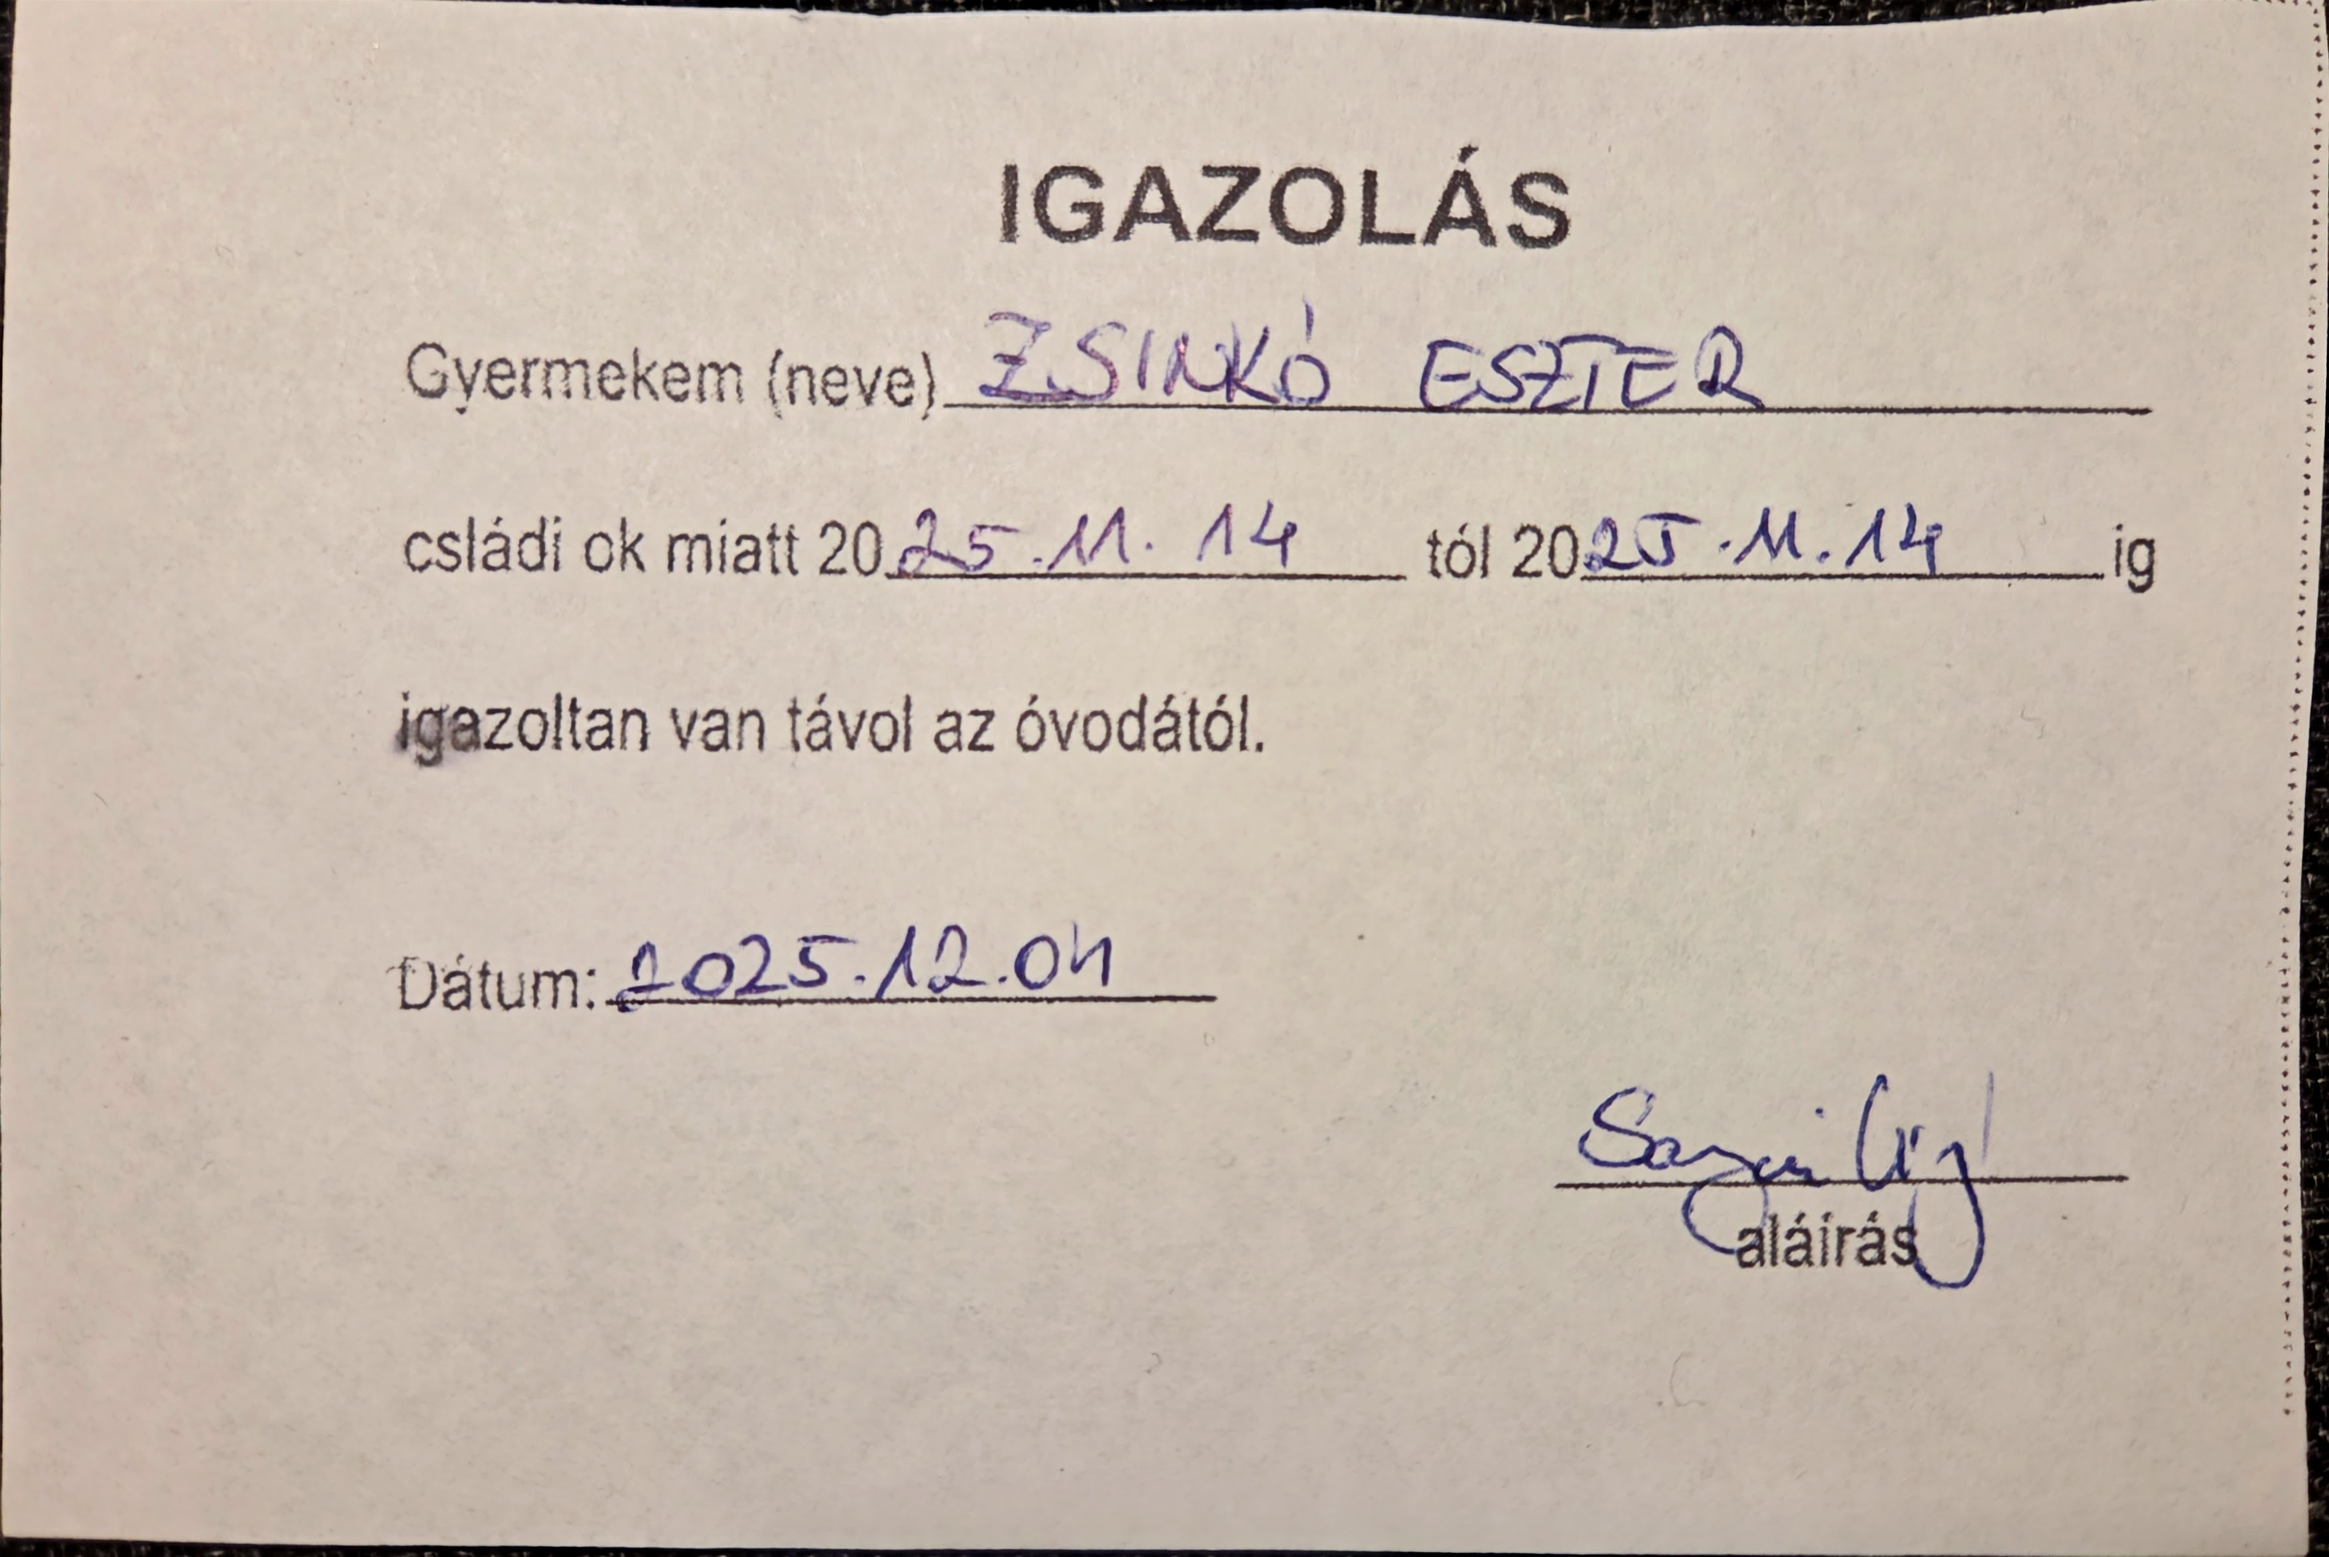
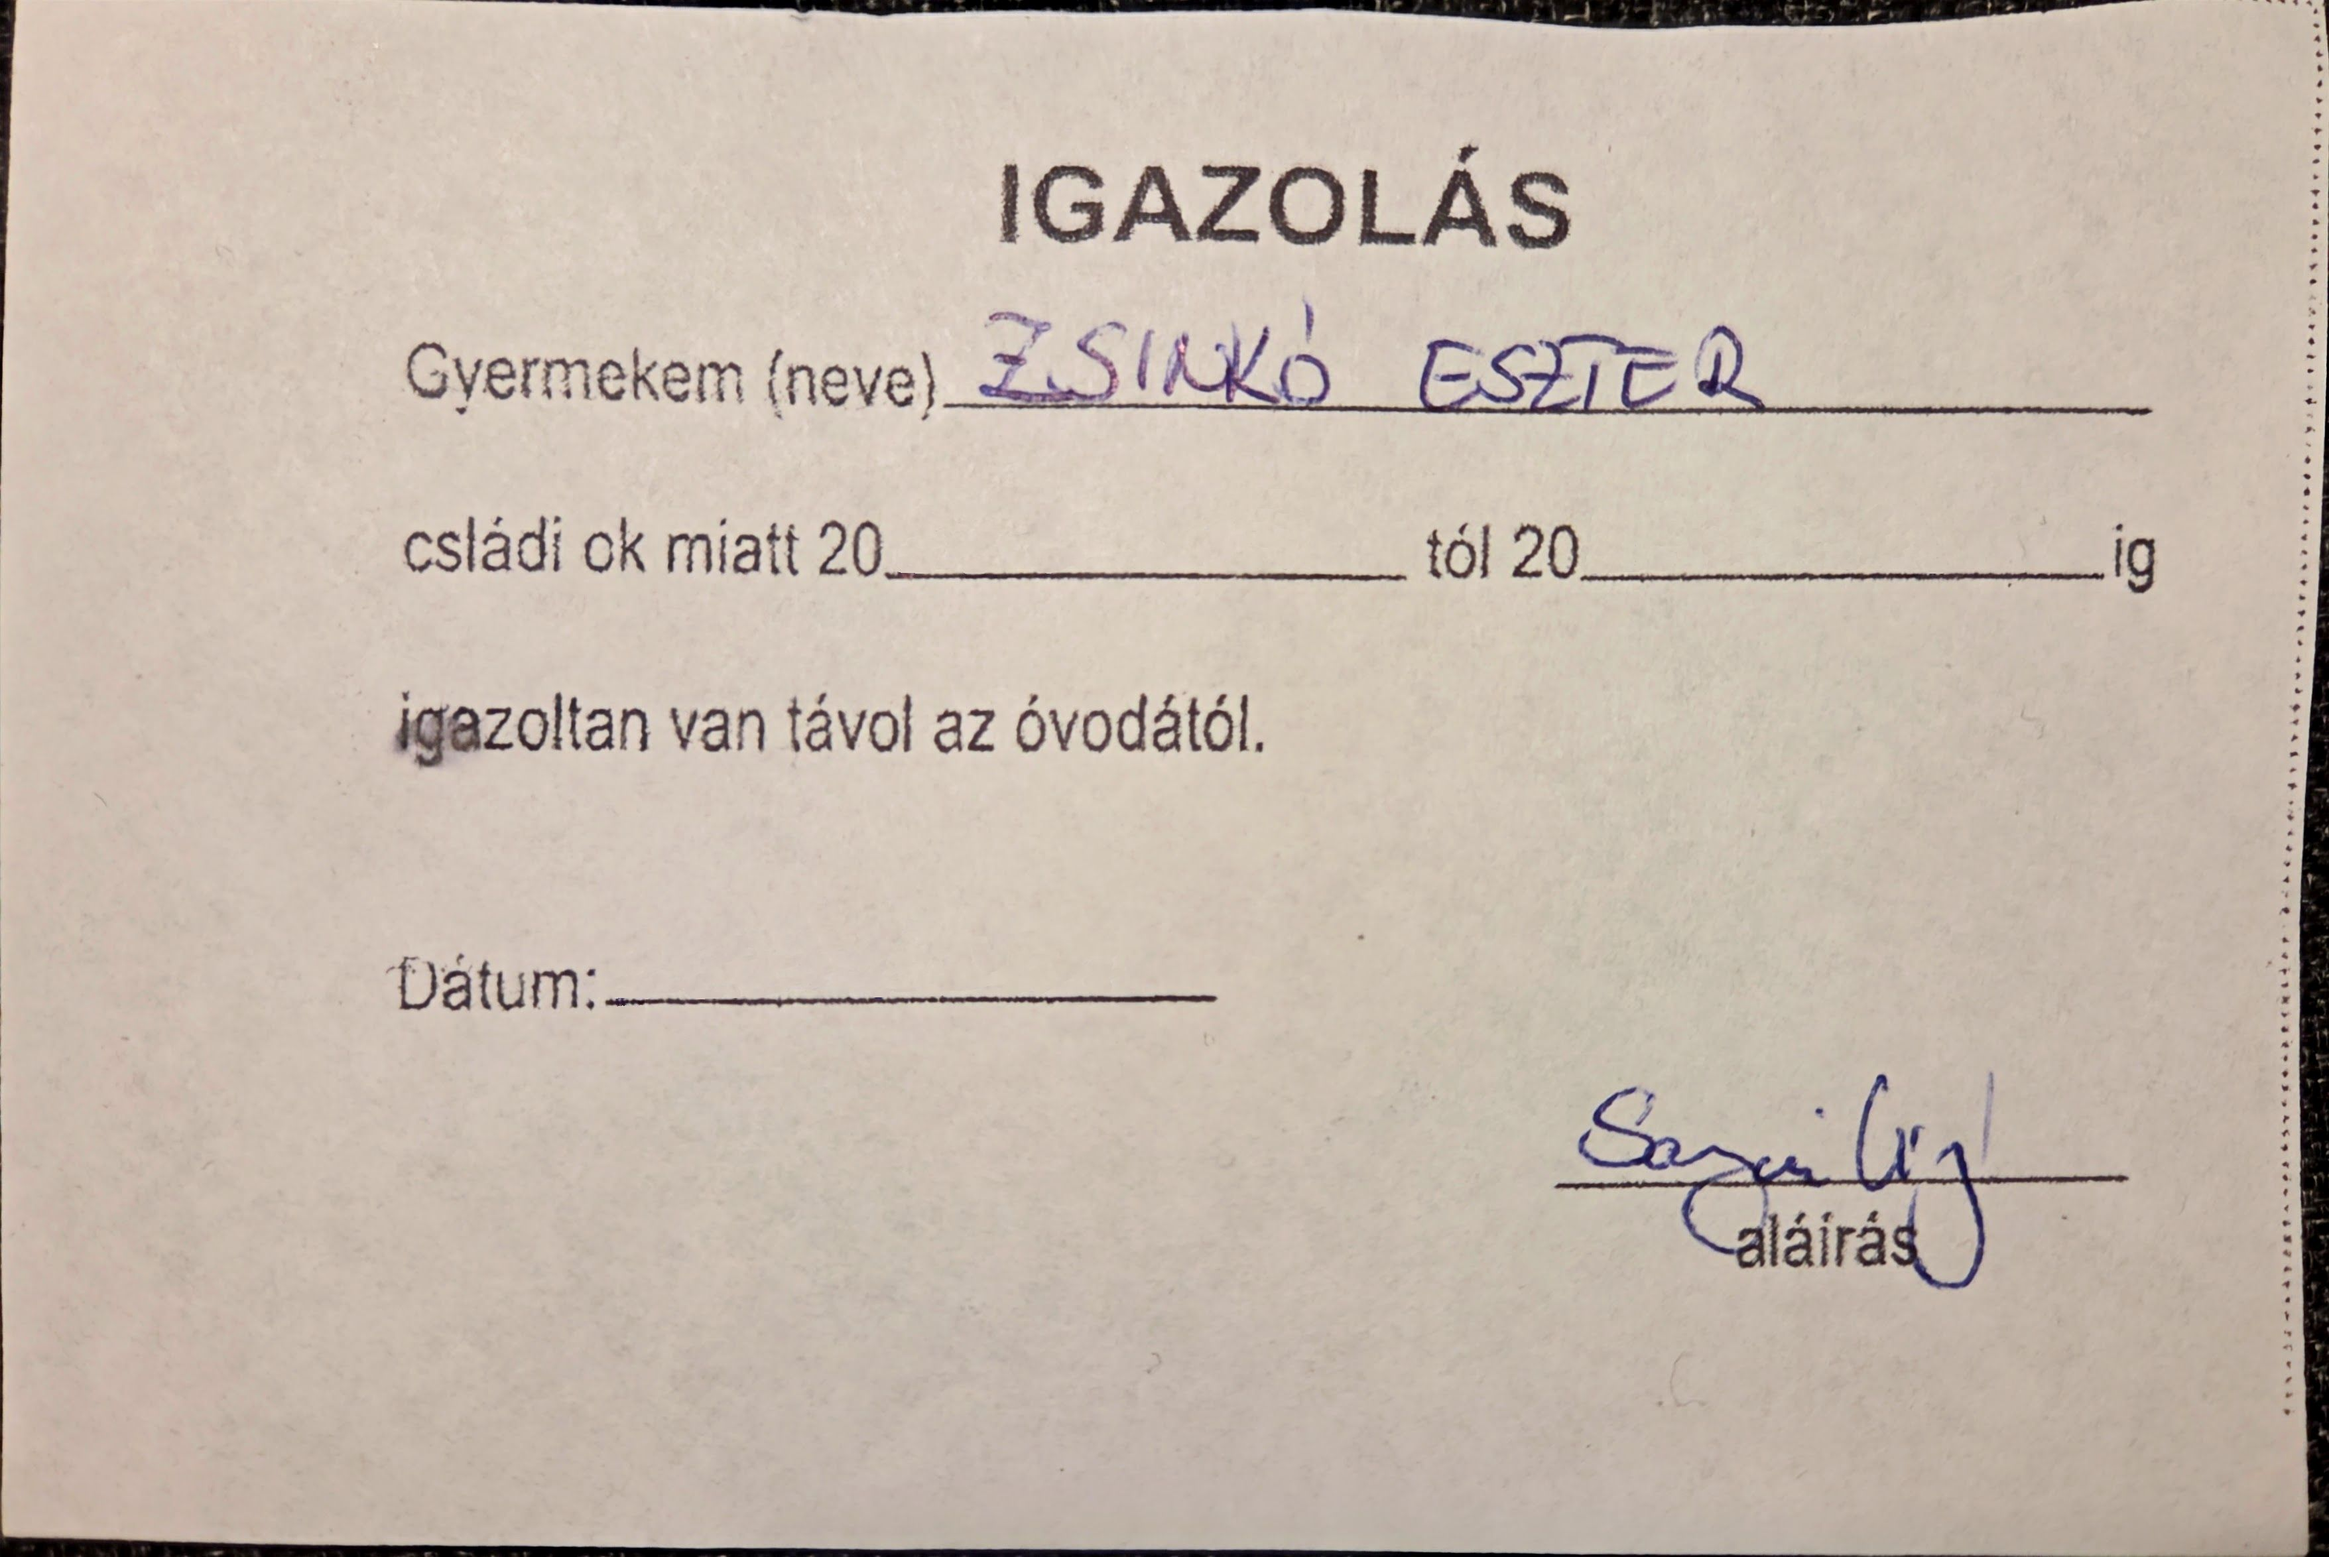
Fill

diff --git a/igazolo.py b/igazolo.py
@@ -59,64 +59,18 @@ def generate_handwritten_text(draw, text, position, font_size=80):
     draw.text((x, y), text, fill=(0, 0, 139), font=font)
 
 
-def clear_region(image, position):
-    """
-    Clear a region by sampling and filling with the surrounding background color.
-    
-    Args:
-        image: PIL Image object
-        position: Tuple of (x1, y1, x2, y2) coordinates
-    """
-    x1, y1, x2, y2 = position
-    
-    # Sample background colors from multiple points around the region perimeter
-    sample_points = []
-    
-    # Sample from outside the box on all four sides
-    offset = 10
-    # Top edge samples
-    for i in range(5):
-        x = x1 + (x2 - x1) * i // 4
-        sample_points.append((x, y1 - offset))
-    # Bottom edge samples
-    for i in range(5):
-        x = x1 + (x2 - x1) * i // 4
-        sample_points.append((x, y2 + offset))
-    # Left edge samples
-    for i in range(3):
-        y = y1 + (y2 - y1) * i // 2
-        sample_points.append((x1 - offset, y))
-    # Right edge samples
-    for i in range(3):
-        y = y1 + (y2 - y1) * i // 2
-        sample_points.append((x2 + offset, y))
-    
-    # Collect valid samples
-    colors = []
-    for x, y in sample_points:
-        if 0 <= x < image.width and 0 <= y < image.height:
-            try:
-                colors.append(image.getpixel((x, y)))
-            except:
-                pass
-    
-    # Calculate average color or fallback to light gray
-    if colors:
-        avg_color = tuple(sum(c[i] for c in colors) // len(colors) for i in range(3))
-    else:
-        avg_color = (240, 240, 240)  # Light gray fallback
-    
-    draw = ImageDraw.Draw(image)
-    draw.rectangle(position, fill=avg_color)
-
-
-def process_igazolas(input_date_str):
+def process_igazolas(from_date_str, to_date_str=None):
     """
     Process the igazolas image with the provided dates.
     
     Args:
-        input_date_str: Date string in format YYYY-MM-DD or YYYY.MM.DD
+        from_date_str: From date string in format YYYY-MM-DD or YYYY.MM.DD
+        to_date_str: To date string (optional). If not provided, uses from_date_str
     """
+    # If to_date not provided, use from_date for both
+    if to_date_str is None:
+        to_date_str = from_date_str
+    
     # Load the input image
     input_file = "igazolas.jpg"
     if not os.path.exists(input_file):
@@ -125,62 +79,73 @@ def process_igazolas(input_date_str):
     
     image = Image.open(input_file)
     
-    # Parse input date
+    # Parse from date
     try:
-        if '.' in input_date_str:
-            input_date = datetime.strptime(input_date_str, "%Y.%m.%d")
+        if '.' in from_date_str:
+            from_date = datetime.strptime(from_date_str, "%Y.%m.%d")
         else:
-            input_date = datetime.strptime(input_date_str, "%Y-%m-%d")
+            from_date = datetime.strptime(from_date_str, "%Y-%m-%d")
     except ValueError:
-        print(f"Error: Invalid date format '{input_date_str}'. Use YYYY-MM-DD or YYYY.MM.DD")
+        print(f"Error: Invalid from date format '{from_date_str}'. Use YYYY-MM-DD or YYYY.MM.DD")
+        sys.exit(1)
+    
+    # Parse to date
+    try:
+        if '.' in to_date_str:
+            to_date = datetime.strptime(to_date_str, "%Y.%m.%d")
+        else:
+            to_date = datetime.strptime(to_date_str, "%Y-%m-%d")
+    except ValueError:
+        print(f"Error: Invalid to date format '{to_date_str}'. Use YYYY-MM-DD or YYYY.MM.DD")
         sys.exit(1)
     
     # Format dates with short year format (25 instead of 2025)
-    input_date_formatted = input_date.strftime("%y.%m.%d")
+    from_date_formatted = from_date.strftime("%y.%m.%d")
+    to_date_formatted = to_date.strftime("%y.%m.%d")
     current_date = datetime.now()
     current_date_formatted = current_date.strftime("%y.%m.%d")
     
     # Define positions for date replacements
     positions = {
-        'input_date_1': (1347, 750, 1966, 864),
-        'input_date_2': (2386, 759, 2934, 862),
+        'from_date': (1347, 750, 1966, 864),
+        'to_date': (2386, 759, 2934, 862),
         'current_date': (921, 1385, 1685, 1505),
     }
-    
-    # Clear regions
-    for position in positions.values():
-        clear_region(image, position)
     
     # Draw dates
     draw = ImageDraw.Draw(image)
     
-    # Add input date to first two positions
-    generate_handwritten_text(draw, input_date_formatted, positions['input_date_1'], font_size=100)
-    generate_handwritten_text(draw, input_date_formatted, positions['input_date_2'], font_size=100)
+    # Add from date and to date to first two positions
+    generate_handwritten_text(draw, from_date_formatted, positions['from_date'], font_size=100)
+    generate_handwritten_text(draw, to_date_formatted, positions['to_date'], font_size=100)
     
     # Add current date to the third position
     generate_handwritten_text(draw, current_date_formatted, positions['current_date'], font_size=100)
     
-    # Generate output filename
-    output_filename = f"igazolas_{current_date.month}_{current_date.day}.jpg"
+    # Generate output filename using the to date
+    output_filename = f"igazolas_{to_date.month}_{to_date.day}.jpg"
     
     # Save the image
     image.save(output_filename, "JPEG", quality=95)
     print(f"Successfully created: {output_filename}")
-    print(f"Input date used: {input_date_formatted}")
-    print(f"Current date used: {current_date_formatted}")
+    print(f"From date: {from_date_formatted}")
+    print(f"To date: {to_date_formatted}")
+    print(f"Current date: {current_date_formatted}")
 
 
 def main():
     """Main entry point."""
-    if len(sys.argv) != 2:
-        print("Usage: python igazolo.py <date>")
+    if len(sys.argv) < 2 or len(sys.argv) > 3:
+        print("Usage: python igazolo.py <from_date> [to_date]")
         print("Date format: YYYY-MM-DD or YYYY.MM.DD")
-        print("Example: python igazolo.py 2025-12-01")
+        print("Examples:")
+        print("  python igazolo.py 2025-12-01              # Uses same date for both")
+        print("  python igazolo.py 2025-12-01 2025-12-05  # Different from/to dates")
         sys.exit(1)
     
-    input_date = sys.argv[1]
-    process_igazolas(input_date)
+    from_date = sys.argv[1]
+    to_date = sys.argv[2] if len(sys.argv) == 3 else None
+    process_igazolas(from_date, to_date)
 
 
 if __name__ == "__main__":

diff --git a/requirements.md b/requirements.md
@@ -1,8 +1,63 @@
-build a python application to replaces the dates in igazolas.jpg
-the input is date, which should be generated as handwritten and replaced in position 1347x750 to 1966x855 and 2386x759 to 2934x855.
-The current date should be generated as handwritten and replaced in position 921x1403 to 1685x1495.
-Save the file as a new jpg, filename is igazolas_{current month numeric}_{current day numeric} eg igazolas_12_05.jpg.
-Select the proper image library to do the replacement.
-Remove the current dates by filling the image with the same background.
-Try to match the ink color of the newly added text.
-The year should be just 25 instead of 2025
+# Igazolas Date Replacement Application Requirements
+
+## Overview
+Build a Python application that replaces dates in `igazolas.jpg` with handwritten-style text.
+
+## Input Parameters
+- **From Date**: Start date (required)
+- **To Date**: End date (optional - if not provided, uses the from date for both positions)
+- Date format: `YYYY-MM-DD` or `YYYY.MM.DD`
+
+## Date Placement Requirements
+
+### Position 1: From Date
+- **Location**: 1347x750 to 1966x864
+- **Content**: User-provided from date
+- **Format**: YY.MM.DD (e.g., 25.12.01)
+- **Style**: Handwritten font
+
+### Position 2: To Date
+- **Location**: 2386x759 to 2934x862
+- **Content**: User-provided to date (or from date if not specified)
+- **Format**: YY.MM.DD (e.g., 25.12.05)
+- **Style**: Handwritten font
+
+### Position 3: Current Date
+- **Location**: 921x1403 to 1685x1505
+- **Content**: Today's date (auto-generated)
+- **Format**: YY.MM.DD (e.g., 25.12.05)
+- **Style**: Handwritten font
+
+## Text Formatting
+- **Year Format**: Short year only (25 instead of 2025)
+- **Font**: Handwritten-style font (Segoe Print, Ink Free, or Brush Script preferred)
+- **Font Size**: 100pt
+- **Horizontal Alignment**: Left-aligned within bounding box (15px padding from left edge)
+- **Vertical Alignment**: Bottom-aligned within bounding box (5px padding from bottom edge)
+- **Ink Color**: Dark blue (RGB: 0, 0, 139) to match typical handwritten document ink
+
+## Output File
+- **Filename Format**: `igazolas_{end_month}_{end_day}.jpg`
+- **Example**: `igazolas_12_5.jpg` (for end date December 5)
+- **Quality**: JPEG quality 95
+- **Location**: Same directory as input file
+
+## Technical Requirements
+- **Image Library**: Pillow (PIL) for image manipulation and text rendering
+- **Base Image**: Pre-processed `igazolas.jpg` with blank regions for date placement
+- **Python Version**: 3.7+
+
+## Usage Examples
+```bash
+# Single date (used for both from and to)
+python igazolo.py 2025-12-01
+
+# Different from and to dates
+python igazolo.py 2025-12-01 2025-12-05
+
+# Alternative date format
+python igazolo.py 2025.12.01 2025.12.05
+```
+
+## Dependencies
+- Pillow >= 10.0.0
